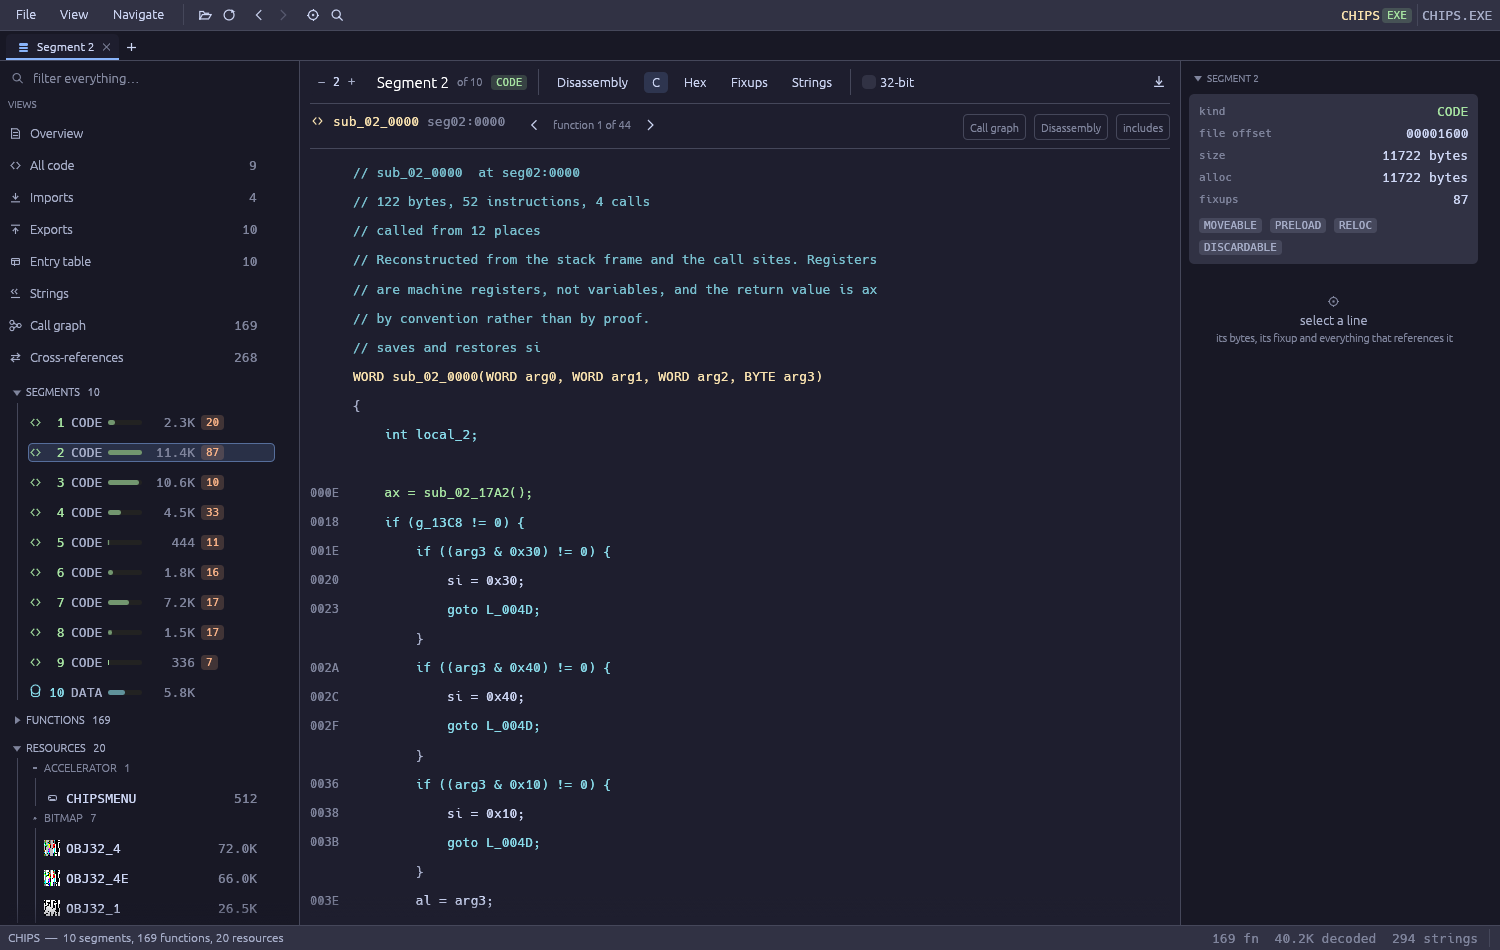
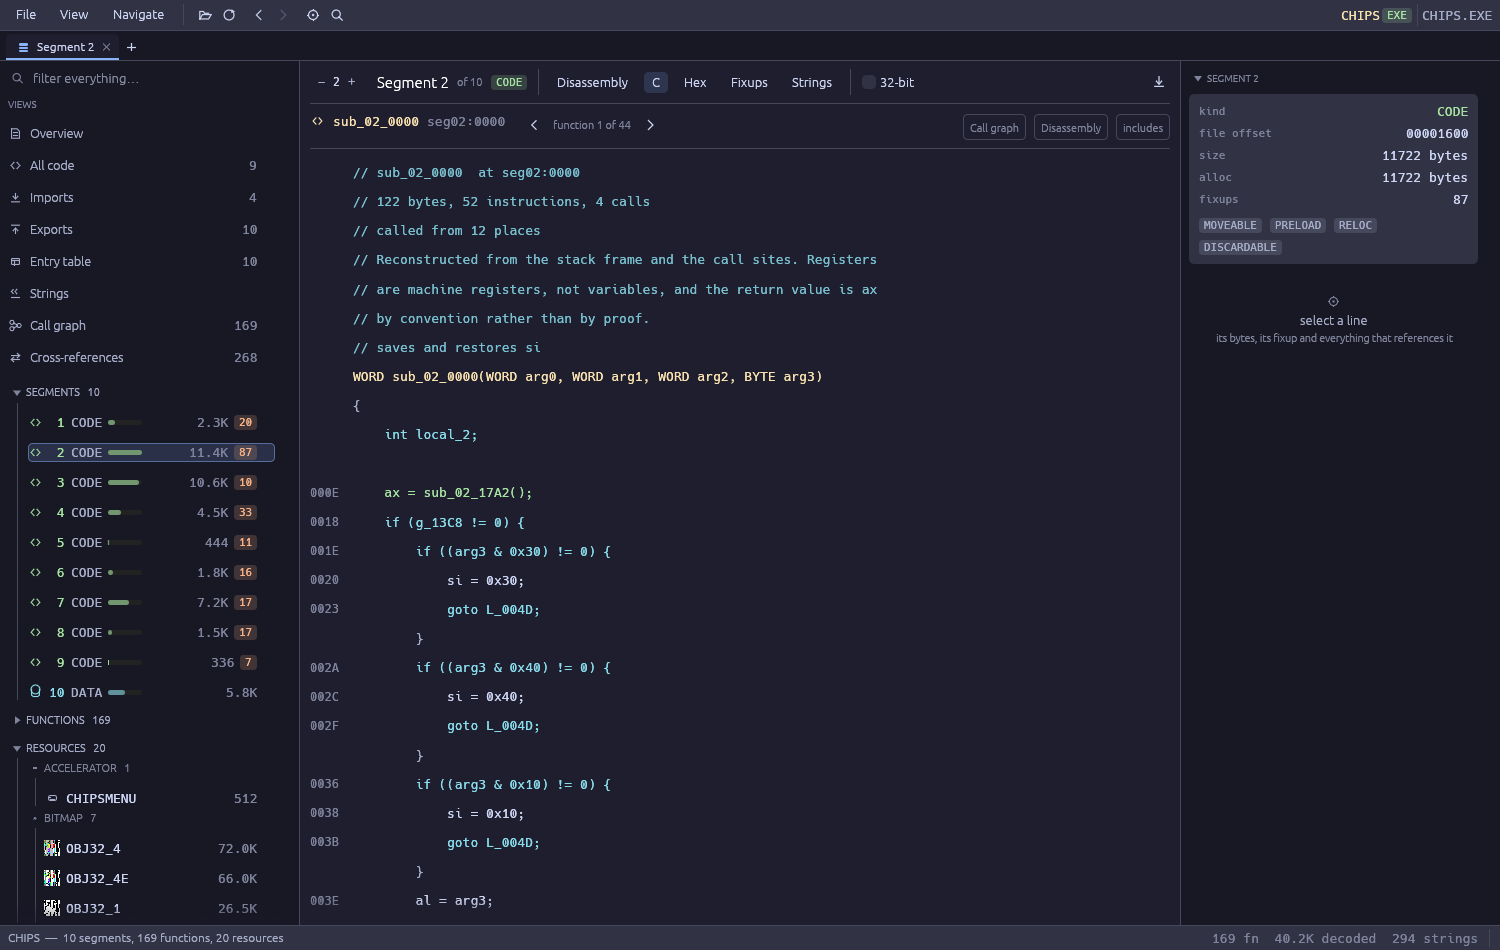
Pin the segment rows right, like the rest of the tree
Every other row in the navigator ends its trailing column at the panel
edge. The segments packed left, so the size and fixup count trailed off
mid-panel and the column stopped being a column.

Screenshots refreshed to match.

Changed region(s): [[0.1227, 0.4274, 0.184, 0.7326]]

diff --git a/crates/sith-gui/src/ui/navigator.rs b/crates/sith-gui/src/ui/navigator.rs
@@ -242,10 +242,15 @@ fn segments_section(
                     // A size bar makes the shape of the binary obvious at a
                     // glance: which segment holds the bulk of the code.
                     bar(ui, s.length as f32 / biggest as f32, color);
-                    ui.label(mono_c(format!("{:>6}", human(s.length as u64)), col::faint()));
-                    if !s.relocs.is_empty() {
-                        widgets::chip(ui, &format!("{}", s.relocs.len()), col::orange());
-                    }
+                    // Pinned to the right edge, like every other row in the
+                    // tree. Packed left they trail off mid-panel and the
+                    // column stops being a column.
+                    ui.with_layout(egui::Layout::right_to_left(egui::Align::Center), |ui| {
+                        if !s.relocs.is_empty() {
+                            widgets::chip(ui, &format!("{}", s.relocs.len()), col::orange());
+                        }
+                        ui.label(mono_c(human(s.length as u64), col::faint()));
+                    });
                 },
             );
             let flags: Vec<String> =
